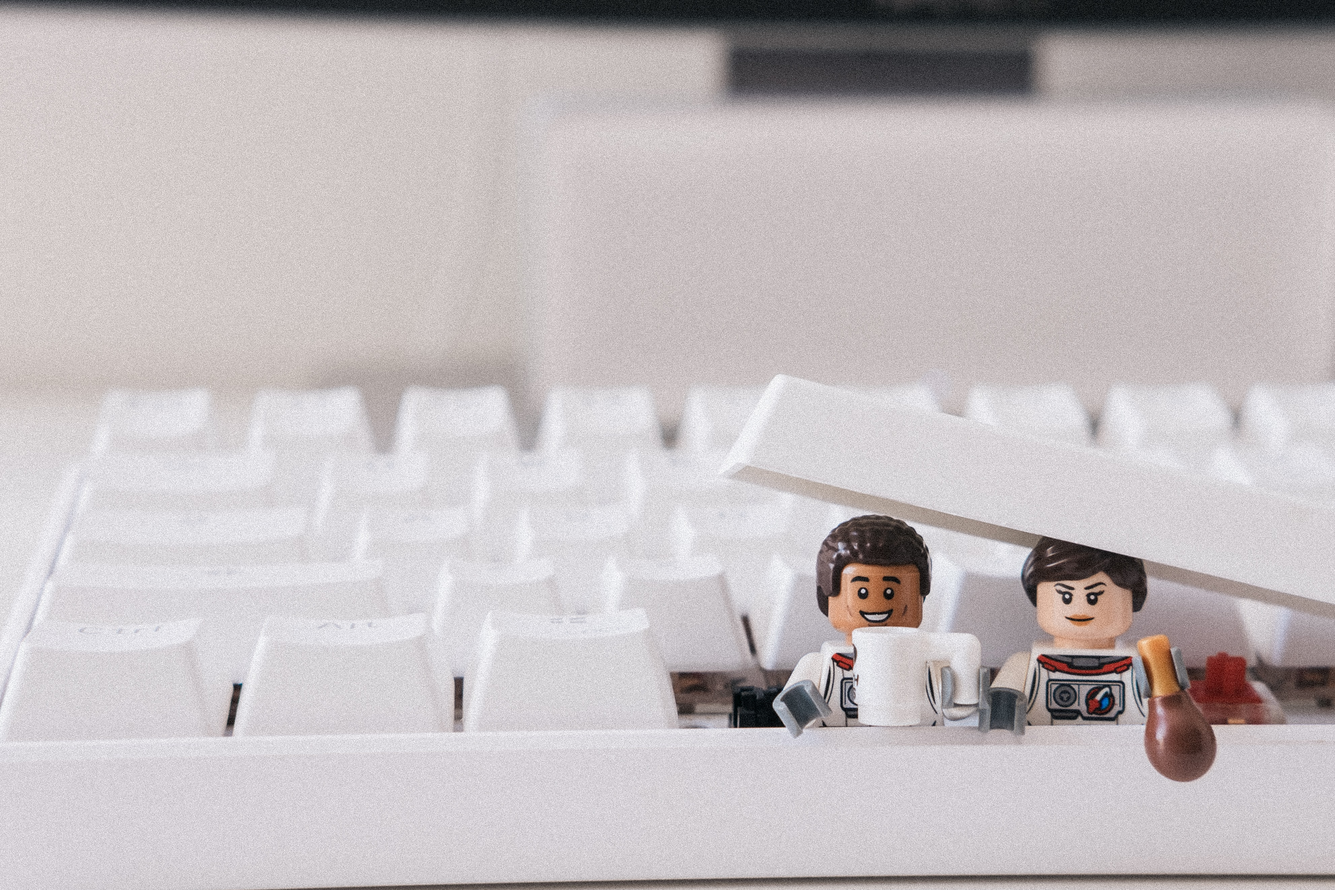
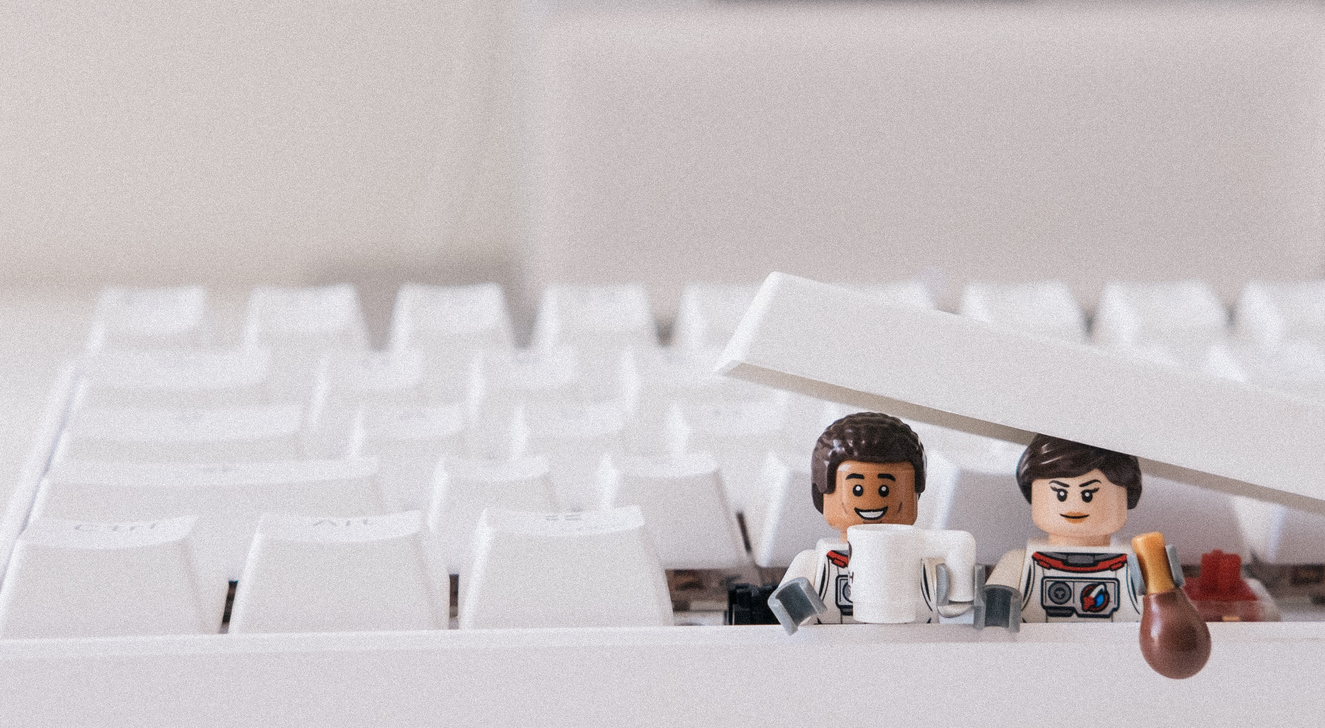
Header Responsive

Changed region(s): [[0.0, 0.0, 1.0, 1.0]]

diff --git a/index.html b/index.html
@@ -30,52 +30,99 @@ font-family: 'Barlow Semi Condensed', sans-serif; -->
 
 <body>
 
-  <header>
+<header class="bg-image">
+
+
 <!------------ MENU ----------------------->
 
 <div class="container-fluid header_menu flex">
-  <div class="header_logo">
-    <img src="assets/logo/codevores.png" alt="" class="logo">
-    <h1 class="allerta white">odevores</h1>
-  </div>
-  <div class="titillium menu_metiers"><a href="#"><span class="white">Métiers</span></a>
-  </div>
-  <nav class="">
-      <a href="#" class="titillium titre_menu border_argile white underline_none">Je recrute</a>
-      <a href="#" class="titillium titre_menu border_argile white underline_none">Je suis freelance</a>
-      <a href="#" class="titillium titre_menu white">M'inscrire</a>
-      <a href="#" class="titillium titre_menu white">Me connecter</a>
-      <a href="#" class="titillium titre_menu white">FAQ</a>
-  </nav>
-  <div class="i_header">
-    <i class="fas fa-hamburger"></i>
-  </div>
+          <div class="header_logo">
+            <img src="assets/logo/codevores.png" alt="" class="logo">
+            <h1 class="allerta white">odevores</h1>
+          </div>
+
+          <div class="titillium menu_metiers"><a href="#"><span class="white">Métiers</span></a>
+          </div>
+
+          <nav class="">
+              <a href="#" class="titillium titre_menu border_argile white underline_none">Je recrute</a>
+              <a href="#" class="titillium titre_menu border_argile white underline_none">Je suis freelance</a>
+              <a href="#" class="titillium titre_menu white">M'inscrire</a>
+              <a href="#" class="titillium titre_menu white">Me connecter</a>
+              <a href="#" class="titillium titre_menu white">FAQ</a>
+          </nav>
+
+          <div class="i_header">
+            <i class="fas fa-hamburger"></i>
+          </div>
 </div>
 
-<div class="container-fluid header_photo">
-  <img src="assets/img/header.jpg" alt="" class="main_photo">
-</div>
+        <div class="container-fluid titillium white header_title">
+          <h2 class=""><span class="underlined">Recruter votre Geekette !</span></h2>
+        </div>
 
-<div class="container">
-  <h2 class="titillium white header_title"><span class="underlined">Recruter votre Geekette !</span></h2>
-</div>
+          <form class="header_selector flex container-fluid">
+            <div class="">
+              <input class="input is-rounded inputSelector border_yellow_light" placeholder="Vous cherchez : UX Designer, php, Angular...">
+            </div>
+            <div class="">
+              <input class="input is-rounded inputSelector border_yellow_light" type="text" placeholder="Pays, Région, Ville">
+            </div>
+            <div class="">
+              <button type="button" name="button" class="white border_argile buttonSearch underline_none" value=""><a class="underline_none">Rechercher</a></button>
+            </div>
+          </form>
 
-  <form class="header_selector flex container">
-    <div class="">
-      <input class="input is-rounded inputSelector border_yellow_light" placeholder="Vous cherchez : UX Designer, php, Angular...">
+</header>
+
+  <main>
+
+    <section class="profils container section">
+
+  <div class="title_section">
+  <h2 class="titillium uppercase bold black"><span class="underline_black">Nos</span> profils</h2>
+
+  <div class="columns">
+  <div class="column">
+    <div class="card border-0" style="width: 15rem;">
+      <img src="..." class="card-img-top" alt="...">
+      <div class="card-body">
+        <h5 class="card-title bold">Lorem Ipsus</h5>
+        <p class="card-text subtitle">Some quick example for clothe's card.</p>
+      <p class="yellow price">$ 25.00-$ 29.00</p>
+      <button type="button" class="btn btn-warning button_cart">Add to cart</button>
+      </div>
     </div>
-    <div class="">
-      <input class="input is-rounded inputSelector border_yellow_light" type="text" placeholder="Pays, Région, Ville">
-    </div>
-    <div class="">
-      <button type="button" name="button" class="white border_argile buttonSearch underline_none" value=""><a class="underline_none">Rechercher</a></button>
-    </div>
-  </form>
+  </div>
 
 
 
-  </header>
 
+  <div class="column">
+    Second column
+  </div>
+  <div class="column">
+    Third column
+  </div>
+  <div class="column">
+    Fourth column
+  </div>
+
+</section>
+
+
+
+
+
+
+
+
+
+
+
+
+
+  </main>
 
 
 

diff --git a/assets/css/style.css b/assets/css/style.css
@@ -56,6 +56,25 @@ table {
 
 
 
+/*------------ BODY -----------------------*/
+
+body, header, html{
+  width: 100%;
+  height: 100%;
+}
+
+.bg-image{
+  width: 100%;
+  height: 100vh;
+background: url(file:///C:/Users/DesCodeuses/Documents/CODING/EXERCICES/CODEVORES.CO/assets/img/header.jpg) no-repeat center center;
+background-size: cover;
+}
+
+
+
+
+
+
 /*------------ DISPLAY -----------------------*/
 .hidden{
   display: none;
@@ -138,34 +157,33 @@ text-decoration-color: #FCB42F; */
   border-bottom: 0px;
 }
 
+.underline_black{
+  border-bottom: 1px #323031 solid;
+}
 
 /*------------ ICONES -----------------------*/
 
 .i_header{
+  position: absolute;
+  right: 15px;
+  top : 6px;
+  z-index: 4;
   font-size: 1.5em;
-  margin: 15px 10px 0 35px;
   text-align: right;
-  width: 60%;
   display: none;
 }
 
 
-/*------------ TEXTE & PHOTO COUVERTURE -----------------------*/
-.header_photo{
- position: absolute;
- width: 100%;
- height: 50vh;
- margin-top: -100px;
- z-index: 1;
-}
+/*------------ TEXTE COUVERTURE -----------------------*/
 
 .header_title {
     font-size: 3em;
-    margin-top: 160px;
     position: absolute;
-    z-index: 3;
-    width: 100%;
+    margin-top: 160px;
     text-align: center;
+    display : table;
+    width: 100%;
+    height: 100%
 }
 
 .header_selector{
@@ -174,7 +192,6 @@ text-decoration-color: #FCB42F; */
   z-index: 3;
   width: 100%;
   margin-top: 270px;
-  margin-left: 60px;
 }
 
 .inputSelector{
@@ -201,13 +218,14 @@ text-decoration-color: #FCB42F; */
 /*------------ LOGO -----------------------*/
 .logo{
   width: 30px;
-  margin: 5px 0 0 25px;
+  margin-top: 5px;
 }
 
 /*------------ BARRE DE NAVIGATION -----------------------*/
 .header_menu{
   position: absolute;
   z-index: 2;
+  padding-left: 15px;
 }
 
 .menu_metiers{
@@ -246,11 +264,30 @@ nav a:hover, a:hover{
   }
 }
 
+/*------------ ECRAN <1120px -----------------------*/
+
 @media all and (max-width:1120px){
   nav{
     display: none;
   }
   .i_header{
     display: inline;
+  }
+  .bg-image{
+    height: 150vh;
+  }
+  .header_title{
+    margin-top: 120px;
+    font-size: 2em;
+    font-weight: bold;
+  }
+  .header_selector{
+  margin-top: 210px;
+  display: table-cell;
+  text-align: center;
+  align-items: center;
+}
+  .inputSelector{
+    margin-bottom: 10px;
   }
 }
